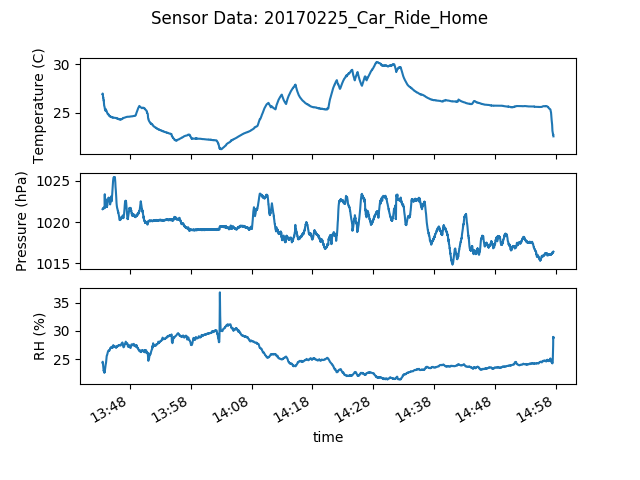
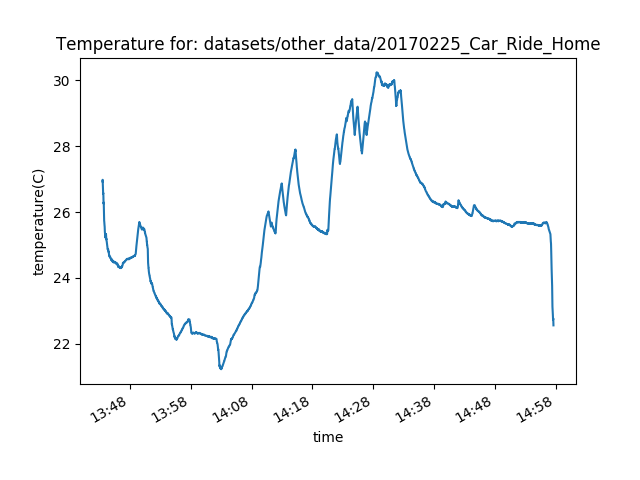
menu implemented. Video folder added to .gitignore.

diff --git a/main.py b/main.py
@@ -16,19 +16,25 @@ will wait until you tell it when you want it to start. Keep hitting enter to sta
 
 
 from modules.functions import get_start, get_data, data_start
-from modules.graph_options import three_plots
+from modules.graph_options import *
 from modules.menus import *
 
+# File location
 the_file = 'datasets/other_data/20170225_Car_Ride_Home.TXT'
 
-lines_to_scan = 40  # lines to scan for the first non-comment line
-
+# Number of lines to scan for first non-commented line. Use to get the data
+# start time
+lines_to_scan = 40
 data_start = data_start(the_file, lines_to_scan)
 
+# Import function that runs through and get information from user. See modules
+# file for more information
 start_time = get_start(data_start)
 
 print("Start time is: {}".format(start_time))
 
+# get_data is in moldules/functions.py file. This is what extracts the
+# data given the input file
 time, temperature, pressure, rel_hum = get_data(the_file, start_time)
 
 # this checks to make sure there is something to output
@@ -36,18 +42,45 @@ if len(time) < 3:
     print("Please check starting times\nProgram Exiting")
     quit()
 
-# With data, create save path and title to give the functions
-save_path = "{}.png".format(the_file.split('.')[0])
-title = 'Sensor Data: {}'.format(the_file.split('.')[0].split('/')[2])
 
-# This is the makes the three plots
-three_plots(x=time,
-            y1=temperature,
-            y2=pressure,
-            y3=rel_hum,
-            title=title,
-            xlabel='time',
-            ylabel1='Temperature (C)',
-            ylabel2='Pressure (hPa)',
-            ylabel3='RH (%)',
-            save_file=save_path)
+# Plotting Menu. Get user input for plotting
+plot_options = [("Temperature", 1),
+                ("Pressure", 2),
+                ("Relative Humidity", 3),
+                ("Plot all", 4)]
+
+user_selection = menu_maker(plot_options)
+
+if user_selection == 1:
+    save_path = "{}_temperature.png".format(the_file.split('.')[0])
+    title_string = 'Temperature for: {}'.format(the_file.split('.')[0].split('/')[2])
+    single_plot(time, temperature, title_string, 'time', 'temperature(C)', save_path)
+
+
+elif user_selection == 2:
+    save_path = "{}_pressure.png".format(the_file.split('.')[0])
+    title_string = 'pressure for: {}'.format(the_file.split('.')[0].split('/')[2])
+    single_plot(time, pressure, title_string, 'time', 'pressure(hPa)', save_path)
+
+elif user_selection == 3:
+    save_path = "{}_RH.png".format(the_file.split('.')[0])
+    title_string = 'RH for: {}'.format(the_file.split('.')[0].split('/')[2])
+    single_plot(time, rel_hum, title_string, 'time', 'Relavitve Humidity', save_path)
+
+elif user_selection == 4:
+
+    # With data, create save path and title to give the functions
+    save_path = "{}_all.png".format(the_file.split('.')[0])
+    title = 'All Data: {}'.format(the_file.split('.')[0].split('/')[2])
+
+    # This is the makes the three plots
+    three_plots(x=time,
+                y1=temperature,
+                y2=pressure,
+                y3=rel_hum,
+                title=title,
+                xlabel='time',
+                ylabel1='Temperature (C)',
+                ylabel2='Pressure (hPa)',
+                ylabel3='RH (%)',
+                save_file=save_path)

diff --git a/modules/menus.py b/modules/menus.py
@@ -11,6 +11,7 @@ def menu_maker(in_list):
     """
     exit = False
     while not exit:
+        print("\n\n")
         n = 1
         for item in in_list:
             print("{}. \t {}".format(n, item[0]))
@@ -22,10 +23,8 @@ def menu_maker(in_list):
                 user_output = in_list[user_selection][1]
                 exit = True
             else:
-                print("Please enter a valid number\n\n")
+                print("Please enter a valid number")
         except:
-            print("Please enter a valid number\n\n")
-    print("User chose: {}".format(user_selection+1))
-    print("User Ouput: {}".format(user_output))
+            print("Please enter a valid number")
     return user_output
 
